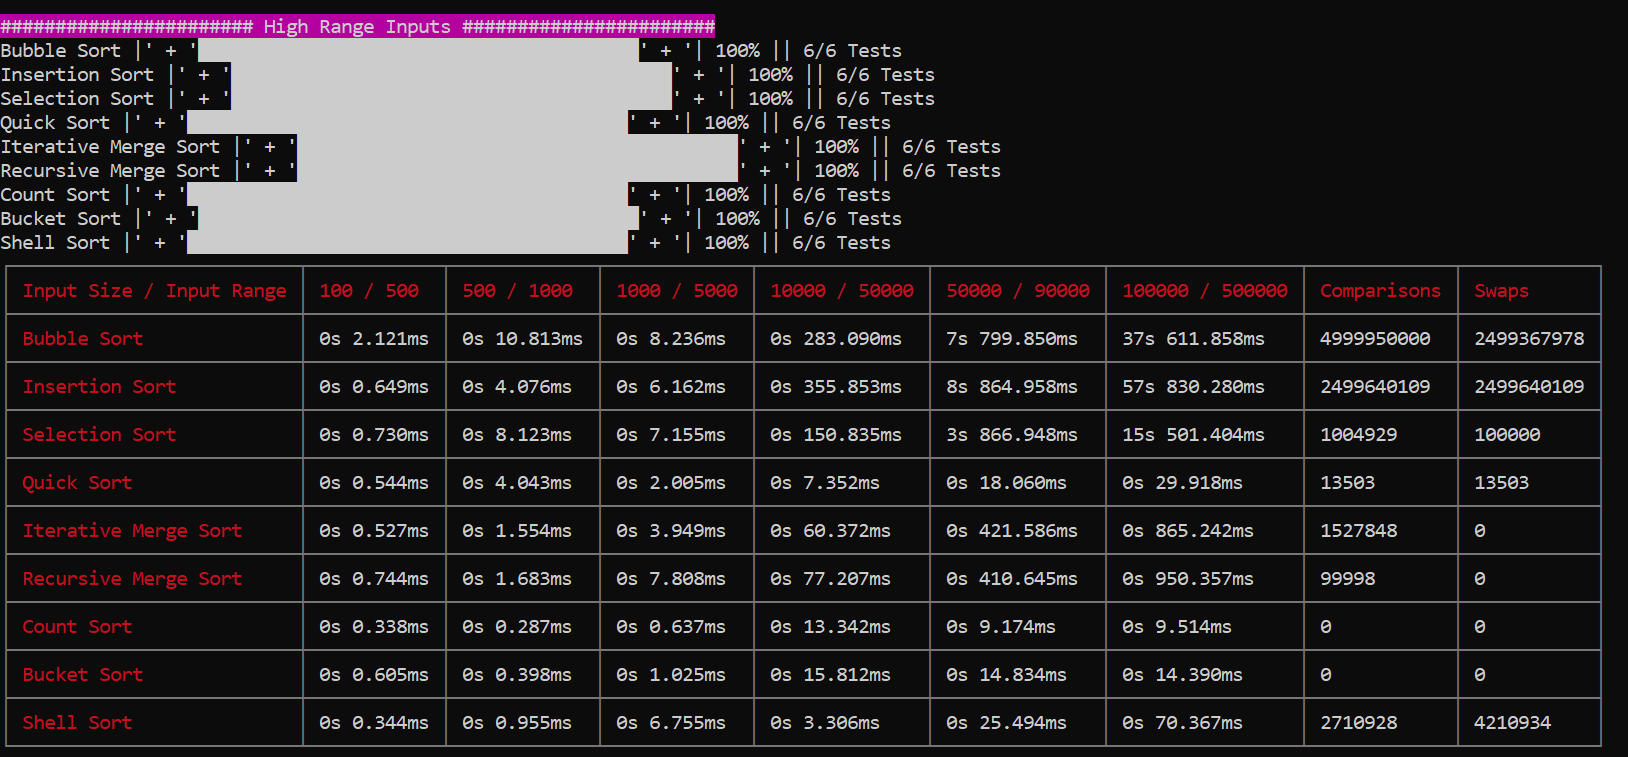
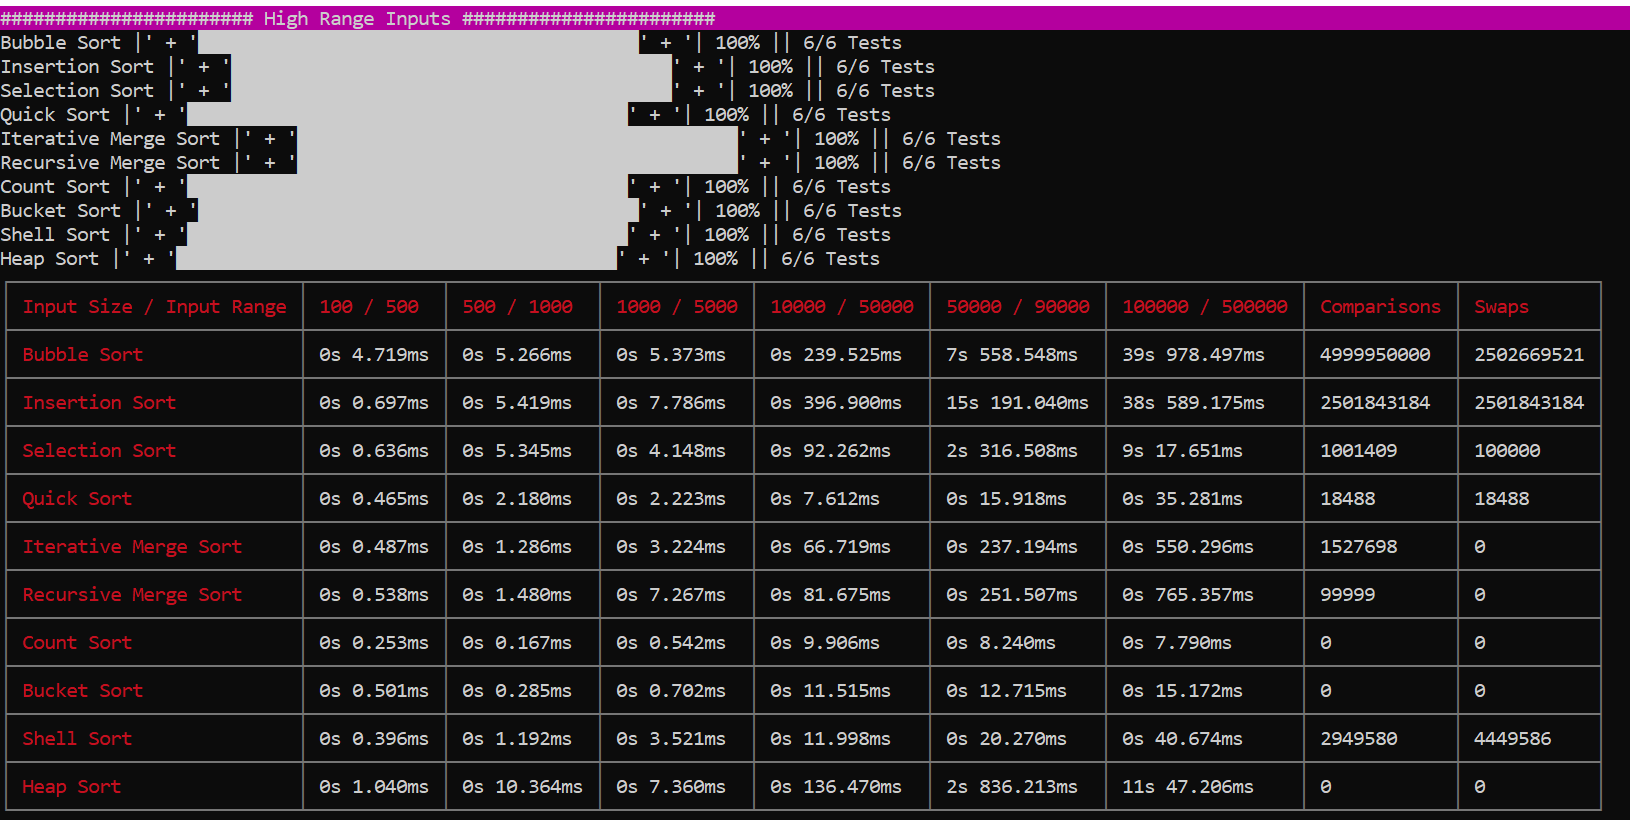
heap and heap sort

Changed region(s): [[0.0, 0.0, 1.0, 1.0]]

diff --git a/Tree/Heap.ts b/Tree/Heap.ts
@@ -1,0 +1,76 @@
+import { blue } from "../log";
+import { Node } from "./Node";
+
+export class Heap {
+
+  root: Node;
+  heapArr = [];
+  size = this.heapArr.length;
+
+  create(arr: number[]) {
+    arr.forEach(val => this.insert(val));
+  }
+
+  insert(n: number) {
+    let i = this.size;
+    let tmp = n;
+    while(i>=1 && tmp > this.heapArr[Math.floor(i/2)]) {
+      this.heapArr[i] = this.heapArr[Math.floor(i/2)];
+      i = Math.floor(i/2);
+    }
+    this.heapArr[i] = tmp;
+    this.size++;
+  }
+
+  delete() {
+    let x = this.heapArr[0];
+    this.heapArr[0] = this.heapArr[this.size-1];
+    let i=0, j=(2*i)+1;
+    while(j<this.size-1) {
+      if (this.heapArr[j+1] > this.heapArr[j]) j++;
+      if (this.heapArr[i] < this.heapArr[j]) {
+        [this.heapArr[i], this.heapArr[j]] = [this.heapArr[j], this.heapArr[i]];
+        i = j;
+        j = (2 * j) + 1;
+      } else {
+        break;
+      }
+    }
+    this.heapArr[--this.size] = x; // appending the deleted element to last (helpful in heap sort)
+  }
+
+  sort() {
+    for (let i = 0; i < this.heapArr.length; i++) {
+      this.delete();
+    }
+  }
+
+  heapify(arr: number[]) {
+    const n = arr.length;
+    const leafCount = Math.floor((n + 1)/2);
+    const lastLeafParent = Math.floor(n/2) - 1;
+
+    for (let i = lastLeafParent; i>= 0; i--) {
+      let j = 2 * i + 1; // left child of current i
+      while (j < n-1) {
+        if (arr[j] < arr[j+1]) { // compare left and right child of current i
+          j++;
+        }
+        if (arr[i] < arr[j]) { // compare parent and largest child
+          [arr[i], arr[j]] = [arr[j], arr[i]];
+          i = j;
+          j = 2 * i + 1;
+        } else {
+          break;
+        }
+      }
+    }
+    this.heapArr = arr;
+    this.size = this.heapArr.length;
+  }
+
+  display() {
+    blue(this.heapArr);
+  }
+}
+

diff --git a/Sorting/stats.ts b/Sorting/stats.ts
@@ -2,12 +2,13 @@ import { bgMagenta } from "../log";
 import { bubble_sort } from "./bubble.sort";
 import { bucket_sort } from "./bucket.sort";
 import { count_sort } from "./count.sort";
+import { heap_sort } from "./heap.sort";
 import { insertion_sort } from "./insertion.sort";
 import { i_merge_sort, r_merge_sort } from "./merge.sort";
 import { quick_sort } from "./quick.sort";
 import { selection_sort } from "./selection.sort";
 import { shell_sort } from "./shell.sort";
-import { bubbleSort, bucketSort, countSort, iMergeSort, insertionSort, ProgressBar, quickSort, randomArray, rMergeSort, selectionSort, shellSort } from "./util";
+import { bubbleSort, bucketSort, countSort, heapSort, iMergeSort, insertionSort, ProgressBar, quickSort, randomArray, rMergeSort, selectionSort, shellSort } from "./util";
 
 const Table = require('cli-table');
 const chalk = require('chalk');
@@ -82,6 +83,7 @@ export class Stats {
     const countStats = this.getStats(count_sort, countSort, lowRange);
     const bucketStats = this.getStats(bucket_sort, bucketSort, lowRange);
     const shellStats = this.getStats(shell_sort, shellSort, lowRange);
+    const heapStats = this.getStats(heap_sort, heapSort, lowRange);
     let aggregate = [
       bubbleStats,
       insertionStats,
@@ -91,7 +93,8 @@ export class Stats {
       rMergeStats,
       countStats,
       bucketStats,
-      shellStats
+      shellStats,
+      heapStats
     ];
     const inputs = lowRange ? this.testInputsLowRange : this.testInputs;
     this.printStats(aggregate, inputs);

diff --git a/Sorting/index.ts b/Sorting/index.ts
@@ -2,13 +2,14 @@ import { blue, green, magenta, yellow } from "../log";
 import { bubble_sort } from "./bubble.sort";
 import { bucket_sort } from "./bucket.sort";
 import { count_sort } from "./count.sort";
+import { heap_sort } from "./heap.sort";
 import { insertion_sort } from "./insertion.sort";
 import { i_merge_sort, r_merge_sort } from "./merge.sort";
 import { quick_sort } from "./quick.sort";
 import { selection_sort } from "./selection.sort";
 import { shell_sort } from "./shell.sort";
 import { Stats } from "./stats";
-import { bubbleSort, countSort, iMergeSort, insertionSort, randomArray, rMergeSort, selectionSort, shellSort } from "./util";
+import { bubbleSort, countSort, heapSort, iMergeSort, insertionSort, randomArray, rMergeSort, selectionSort, shellSort } from "./util";
 
 const array = randomArray(100);
 
@@ -92,10 +93,16 @@ class SortSimulator {
     console.time(shellSort);
     const shell = shell_sort(array.slice());
     console.timeEnd(shellSort);
-    console.log(shell);
     magenta(`Comparisons: ${shell.comparisons}`);
     yellow(`Swaps: ${shell.swaps}`);
     blue(`Array: ${shell.result}`);
+  }
+
+  heapSort() {
+    console.time(heapSort);
+    const heap = heap_sort(array.slice());
+    console.timeEnd(heapSort);
+    blue(`Array: ${heap.result}`);
   }
 
   printStats(lowRange: boolean = false) {
@@ -109,3 +116,4 @@ const sim = new SortSimulator();
 sim.printStats();
 sim.printStats(true);
 // sim.shellSort();
+// sim.heapSort();

diff --git a/Tree/index.ts b/Tree/index.ts
@@ -3,6 +3,7 @@ import { randomArray } from "../Sorting/util";
 import { BalancedBinarySearchTree } from "./AVLTree";
 import { BinarySearchTree } from "./BinarySearchTree";
 import { BinaryTree } from "./BinaryTree";
+import { Heap } from "./Heap";
 
 export class TreeSimulator {
   binaryTree() {
@@ -33,17 +34,29 @@ export class TreeSimulator {
     console.log('root: ', bbst.root.data);
     console.log('height of tree: ', bbst.height());
   }
+
+  heap() {
+    const heap = new Heap();
+    const arr = randomArray(10);
+    heap.create(arr);
+    heap.display();
+    heap.heapify(arr);
+    // heap.sort();
+    heap.display();
+  }
 }
 
 const tree = new TreeSimulator();
 // tree.bbst();
-const array = randomArray(128, 10000);
-const bst = new BinarySearchTree();
-const bbst = new BalancedBinarySearchTree();
-bst.create(array);
-bbst.create(array);
-blue(`bst vs bbst height: , ${bst.height()}, ${bbst.height()}`);
-green(`root of bst vs bbst: ${bst.root.data} vs ${bbst.root.data}`);
+// const array = randomArray(128, 10000);
+// const bst = new BinarySearchTree();
+// const bbst = new BalancedBinarySearchTree();
+// bst.create(array);
+// bbst.create(array);
+// blue(`bst vs bbst height: , ${bst.height()}, ${bbst.height()}`);
+// green(`root of bst vs bbst: ${bst.root.data} vs ${bbst.root.data}`);
+
+tree.heap();
 
 
 

diff --git a/Sorting/heap.sort.ts b/Sorting/heap.sort.ts
@@ -1,0 +1,11 @@
+import { Heap } from "../Tree/Heap";
+import { Result, SortResult } from "./util";
+
+export function heap_sort(arr: number[]) {
+  const response: SortResult = new Result();
+  const heap = new Heap();
+  heap.heapify(arr);
+  heap.sort();
+  response.result = heap.heapArr;
+  return response;
+}

diff --git a/Sorting/util.ts b/Sorting/util.ts
@@ -11,6 +11,7 @@ export const countSort = 'Count Sort';
 export const bucketSort = 'Bucket Sort';
 export const shellSort = 'Shell Sort';
 export const radixSort = 'Radix Sort';
+export const heapSort = 'Heap Sort';
 
 export interface SortResult {
   swaps: number;
